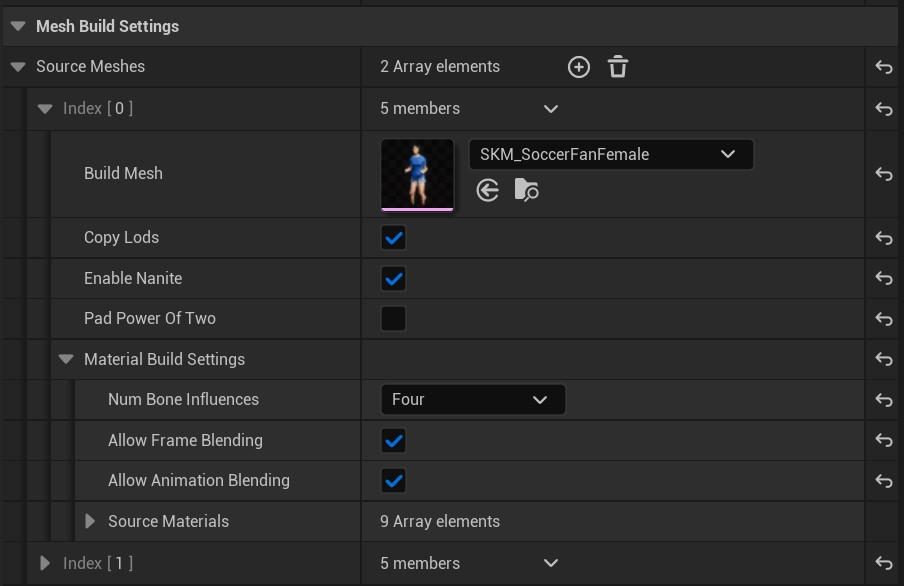
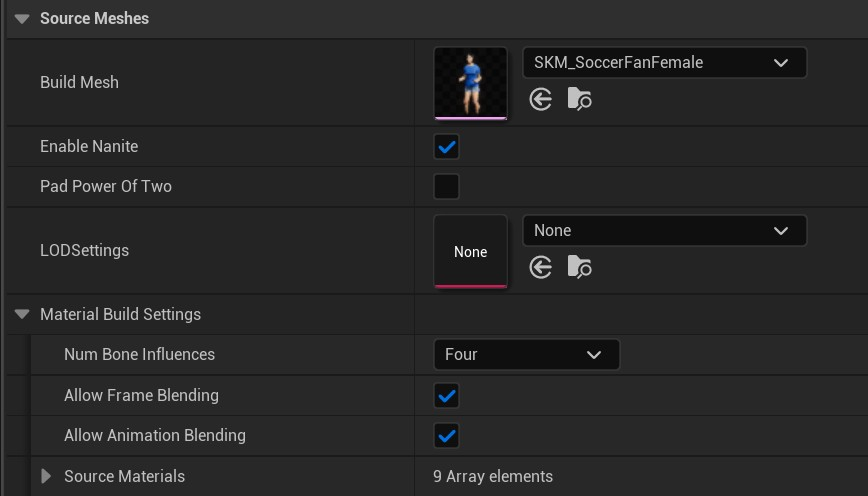
updates

diff --git a/docs/custom-animation-lists.md b/docs/custom-animation-lists.md
@@ -11,61 +11,58 @@ Animation Lists allow you to create reusable animation behaviors that can be app
 > 3. Name your blueprint (e.g., `BP_SoccerFanAnimListLogic`)
 > 4. Open the blueprint and override the events you need
 
-![Animation List Event Override](assets/animlist_eventoverride.jpg){width=600px style="margin-top: 10px; margin-bottom: 5px;"}
+![Begin Instances Event](assets/animlist_begininstances.jpg){width=600px style="margin-top: 10px; margin-bottom: 5px;"}
 
-## Animation List Events
 
-> Your custom Animation List blueprint can override these events to control animation behavior:
-
-### Event Begin Instances
+### **Event Begin Instances**
 > Called when instances are assigned to use this Animation List. Use this to initialize any custom logic or state.
 
-### Event End Instances  
+### **Event End Instances**  
 > Called when instances stop using this Animation List. Use this for cleanup.
 
-### Event Update Instances
+### **Event Update Instances**
 > Called every frame for all active instances. Use this for time-based logic or checking transition conditions.
 
-### Event Animation Completed
+### **Event Animation Completed**
 > Called when an animation finishes playing. Use this to choose the next animation or transition to a different behavior.
 
-### Event Custom Animation Event
+### **Event Custom Animation Event**
 > Called when events are broadcast from the AVACrowds actor or your custom event system. Use this to respond to gameplay events.
 
 > **Update Context**: All events receive an Update Context parameter that provides functions to control animations (play, pause, set position, etc.) and query current animation state (which animation is playing, current position, play rate, etc.) for any instance.
 
-![Begin Instances Event](assets/animlist_begininstances.jpg){width=600px style="margin-top: 10px; margin-bottom: 5px;"}
+![Animation List Event Override](assets/animlist_eventoverride.jpg){width=600px style="margin-top: 10px; margin-bottom: 5px;"}
 
 ## Working with the Update Context
 
 > The Update Context is your primary tool for controlling animations from within your Animation List logic. It provides:
 
-### Animation Control Functions
-> - **PlayAnimation**: Start a new animation for specific instances
-> - **PauseAnimation / ResumeAnimation**: Pause and resume playback
-> - **SetAnimationPosition**: Jump to a specific point in the animation
-> - **SetAnimationPlayRate**: Change animation speed
-> - **SetAnimationLooping**: Enable/disable looping
-> - **StopAnimation**: Stop the current animation
+### **Animation Control Functions**
+> - `PlayAnimation`: Start a new animation for specific instances
+> - `PauseAnimation` / `ResumeAnimation`: Pause and resume playback
+> - `SetAnimationPosition`: Jump to a specific point in the animation
+> - `SetAnimationPlayRate`: Change animation speed
+> - `SetAnimationLooping`: Enable/disable looping
+> - `StopAnimation`: Stop the current animation
 
-### Query Functions
-> - **GetInstanceIds**: Get all instances using this list
-> - **GetAnimation**: Get which animation is currently playing
-> - **GetPosition**: Get current position in the animation (0-1)
-> - **GetPlayRate**: Get current playback speed
-> - **GetPlaying**: Check if animation is playing
-> - **GetLooping**: Check if animation is looping
+### **Query Functions**
+> - `GetInstanceIds`: Get all instances using this list
+> - `GetAnimation`: Get which animation is currently playing
+> - `GetPosition`: Get current position in the animation (0-1)
+> - `GetPlayRate`: Get current playback speed
+> - `GetPlaying`: Check if animation is playing
+> - `GetLooping`: Check if animation is looping
 
-> **Example**: For a detailed implementation example, see `Plugins/VertexAnimation/Content/DemoMap/Blueprints/SoccerGame/BP_SoccerFanAnimListLogic.uasset`
+**Example**: For a detailed implementation example, see `Plugins/VertexAnimation/Content/DemoMap/Blueprints/SoccerGame/BP_SoccerFanAnimListLogic.uasset`
 
 ## Built-in Animation List Types
 
 > The plugin includes pre-built Animation List types you can use or extend:
 
-### Sequence List
+### **Sequence List**
 > Plays animations in the order they appear in the list. When the last animation completes, it loops back to the first.
 
-### Random List  
+### **Random List**  
 > Randomly selects animations from the list. You can configure weights and prevent the same animation from playing twice in a row.
 
 ## See Also

diff --git a/docs/va-asset-editor-custom-data.md b/docs/va-asset-editor-custom-data.md
@@ -16,37 +16,49 @@ The Per Instance Custom Data system allows you to inject randomized or controlle
 
 To set up your custom data, follow these steps:
 
-### Step 1: Add Per Instance Custom Data Node
+### **Step 1: Add Per Instance Custom Data Node**
 > In your material, add a Per Instance Custom Data node
 
-### Step 2: Set Data Index
+### **Step 2: Set Data Index**
 > When creating your first Custom Data node, assign it a Data Index of 10. Indices **0-9 are reserved for system functionality so do not use these indices. Instead start at 10**. For each additional Custom Data node, increment the index value (11, 12, etc.).
 
 ![Data Index](assets/va_material_dataindex.jpg){width=400px style="margin-top: 10px; margin-bottom: 5px;"}
 
-### Step 3: Connect ScalarParameter
+### **Step 3: Connect ScalarParameter**
 > Add a ScalarParameter node and name it the name of your Custom Data. Plug the output into the PerInstanceCustomData node input.
 
 ![Per Instance Data Node](assets/va_material_customdatanodes.jpg){width=800px style="margin-top: 10px; margin-bottom: 5px;"}
 
-### Step 4: Add Entry in VA Asset Editor
+### **Step 4: Add Entry in VA Asset Editor**
 > In the VA Asset Collection Editor window, locate the **Mesh Runtime Data** section and add a new entry to the **Per Instance Custom Data** list.
 
-### Step 5: Configure Custom Data Entry
+### **Step 5: Configure Custom Data Entry**
 > Enter the same Custom Data Name you used for the ScalarParameter in your material. Note that entries in this list correspond sequentially to Per Instance Custom Data Indices in the material itself: the first entry maps to Data Index 10, the second to Index 11, and so on.
 
-### Step 6: Set Value Range
+### **Step 6: Set Value Range**
 > Define the variation range by setting minimum and maximum values in the Custom Float fields. Enable the checkbox below to round values to integers if needed.
 
 ![Per Instance Data](assets/vacollect_custom_entry.jpg){width=800px style="margin-top: 10px; margin-bottom: 5px;"}
 
-### Step 7: Reapply Custom Data
+### **Step 7: Reapply Custom Data**
 > Remember to **Reapply Custom Data** when you are done.
 
 ![Reapply Custom Data](assets/va_reapply.jpg){width=800px style="margin-top: 10px; margin-bottom: 5px;"}
 
 
 ## Usage Examples
+
+<div class="image-row" style="display: flex; gap: 10px; justify-content: center; align-items: center;">
+  <div style="text-align: center;">
+    <img src="../assets/custdata_var01.jpg" alt="Custom Data Variation 1" style="width: 200px; height: auto;">
+  </div>
+  <div style="text-align: center;">
+    <img src="../assets/custdata_var02.jpg" alt="Custom Data Variation 2" style="width: 200px; height: auto;">
+  </div>
+  <div style="text-align: center;">
+    <img src="../assets/custdata_var03.jpg" alt="Custom Data Variation 3" style="width: 200px; height: auto;">
+  </div>
+</div>
 
 You can use custom data for various effects, such as:
 

diff --git a/docs/animation-control.md b/docs/animation-control.md
@@ -9,7 +9,6 @@ The Vertex Animation Toolset provides helper functions that automatically manage
 > - **Single Mode**: Direct control of individual animations
 > - **AnimList Mode**: List-based animation sequences
 
-When you use the component's animation functions like `PlaySingleAnimation` or `PlayAnimationList`, the system automatically transitions between modes based on which function you call.
 
 ## Single Animation Mode
 
@@ -20,8 +19,6 @@ When you use the component's animation functions like `PlaySingleAnimation` or `
 > 3. Maintains this mode until you call a different animation function
 
 ![Play Single Animation](assets/playsingleanim.jpg){width=600px style="margin-top: 10px; margin-bottom: 5px;"}
-
-### Playing Single Animations
 
 > The `PlaySingleAnimation` function accepts:
 > 
@@ -34,7 +31,7 @@ When you use the component's animation functions like `PlaySingleAnimation` or `
 > - **Reverse**: Play the animation backwards
 > - **Override Saved Animation**: When true, saves this animation state to the level so it persists across editor sessions and plays automatically on level load
 
-### Single Animation Functions
+### All Available Functions
 
 > Core functions available in Single Mode:
 > 
@@ -55,8 +52,6 @@ When you use the component's animation functions like `PlaySingleAnimation` or `
 
 ![Play Animation List](assets/playanimlist.jpg){width=600px style="margin-top: 10px; margin-bottom: 5px;"}
 
-### Playing Animation Lists
-
 > The `PlayAnimationList` function accepts:
 > 
 > - **Instance ID / Instance IDs**: Single instance or array of instances to affect
@@ -67,7 +62,7 @@ When you use the component's animation functions like `PlaySingleAnimation` or `
 
 > The animation system includes a robust event system that's particularly powerful when used with the [Crowd Tools](crowd-tools-editor-mode.md). Events can be broadcast to all instances or specific subsets of your crowd, allowing you to make crowds react dynamically to gameplay events, level changes, or player actions.
 
-### Broadcasting Events
+### **Broadcasting Events**
 
 > **For Crowd Systems**: Events are broadcast through the AVACrowds parent actor to all crowd instances:
 
@@ -75,7 +70,7 @@ When you use the component's animation functions like `PlaySingleAnimation` or `
 
 > **For Non-Crowd Systems**: If you're using VA Mesh Component without the crowd tools, you'll need to implement your own event system to communicate with your Animation Lists.
 
-### Event Handling in Animation Lists
+### **Event Handling in Animation Lists**
 
 > Custom Animation Lists receive events by overriding the `CustomAnimationEvent` function. Here's an example:
 

diff --git a/docs/getting-started.md b/docs/getting-started.md
@@ -14,7 +14,7 @@ graph TD
     E --> D
 ```
 
-## Step 1: Create VA Asset
+### **Step 1: Create VA Asset**
 
 > 1. Right-click your skeletal mesh in Content Browser
 > 2. Choose animation type:
@@ -29,7 +29,7 @@ graph TD
 
 > A VA Asset Collection is the core asset that stores all data required for vertex animations. Learn more about what it contains in the [VA Asset Collection](va-asset-collection.md) documentation.
 
-## Step 2: Fix Materials
+### **Step 2: Fix Materials**
 
 > Since vertex animations work differently than skeletal animations, your materials need to be modified. A dialog will appear showing any material errors:
 
@@ -46,7 +46,7 @@ graph TD
 
 ![VA Asset Collection Result](assets/quick_4.png){style="margin-top: 10px; margin-bottom: 5px;"}
 
-## Step 3: Configure Asset (Optional)
+### **Step 3: Configure Asset (Optional)**
 
 > Double-click your VA Asset Collection to open the editor and adjust settings:
 > 
@@ -56,15 +56,12 @@ graph TD
 > 
 > Click "Rebuild Asset" after making changes to apply them.
 
-## Step 4: Choose Implementation
+### **Step 4: Choose Implementation**
 
-### Single Character
-> Use [VA Mesh Component](vertex-anim-mesh-component.md) for individual characters needing precise control
+> - **Single Character**: Use [VA Mesh Component](vertex-anim-mesh-component.md) for individual characters needing precise control
+> - **Multiple Characters**: Use [VA Instanced Mesh Component](vertex-anim-instanced-mesh-component.md) for crowds and multiple characters
 
-### Multiple Characters  
-> Use [VA Instanced Mesh Component](vertex-anim-instanced-mesh-component.md) for crowds and multiple characters
-
-## Step 5: Place Characters (Multiple Characters Only)
+### **Step 5: Place Characters (Multiple Characters Only)**
 
 > Use [Crowd Tools](crowd-tools-editor-mode.md) for easy placement:
 > 
@@ -74,7 +71,7 @@ graph TD
 
 ![Crowd Example](assets/Crowd_01.jpg){: style="display: block; margin: 0 auto; width: 85%; padding: 10px;"}
 
-## Step 6: Control Animations
+### **Step 6: Control Animations**
 
 > Configure animations through:
 > 
@@ -84,6 +81,6 @@ graph TD
 
 ## Next Steps
 
-> - [VA Asset Collection](va-asset-collection.md): Manage your animation assets
-> - [VA Asset Collection](va-asset-collection.md): Fine-tune asset settings
-> - [Troubleshooting](troubleshooting.md): Solve common issues
+- [VA Asset Collection](va-asset-collection.md): Manage your animation assets
+- [VA Asset Collection](va-asset-collection.md): Fine-tune asset settings
+- [Troubleshooting](troubleshooting.md): Solve common issues

diff --git a/docs/va-asset-editor-animation.md b/docs/va-asset-editor-animation.md
@@ -5,14 +5,14 @@ This page details the animation-related settings in the VA Asset Editor, coverin
 ## Animation Build Settings
 ![Animation Build Settings](assets/vacollect_anim_build.jpg){width=600px style="margin-top: 10px; margin-bottom: 5px;"}
 
-The Animation Build Settings panel lets you manage your animation sequences and build options. Here you can edit the source animation list. Additional settings include options for texture generation quality and power-of-two padding optimization.
+> The Animation Build Settings panel lets you manage your animation sequences and build options. Here you can edit the source animation list. Additional settings include options for texture generation quality and power-of-two padding optimization.
 
 **Note:** Remember to click the Rebuild Asset button after making changes.
 
 ## Animation Runtime Data
 ![Animation Runtime Data](assets/vacollect_anim_runtime.jpg){width=600px style="margin-top: 10px; margin-bottom: 5px;"}
 
-This section shows the read-only compiled animation data for each sequence, including:
+> This section shows the read-only compiled animation data for each sequence, including:
 
 > - Animation frame details (start frame, duration, frame rate)
 > - Total frame count
@@ -20,12 +20,11 @@ This section shows the read-only compiled animation data for each sequence, incl
 > - Position and rotation/normal texture mappings
 
 ## Animation Preview
+![Animation Timeline](assets/vaasset_animation_timeline.jpg){width=600px style="margin-top: 10px; margin-bottom: 5px;"}
 
-The timeline area in the VA Asset Editor displays your currently selected preview animation. You can switch between different animations to visualize how your asset will appear in-game.
-
-## Animation Timeline
-
-The bottom panel provides standard timeline controls for previewing your animations. Use these controls to play, pause, and scrub through your animation sequences.
+> The timeline area in the VA Asset Editor displays your currently selected preview animation. You can switch between different animations to visualize how your asset will appear in-game.
+>
+> The bottom panel provides standard timeline controls for previewing your animations. Use these controls to play, pause, and scrub through your animation sequences.
 
 ## See Also
 

diff --git a/docs/va-asset-collection.md b/docs/va-asset-collection.md
@@ -25,18 +25,16 @@ Double-click a VA Asset Collection to open the editor window where you can confi
 
 ![VA Asset Editor Interface](assets/vacollect_02.jpg){width="70%" style="margin-top: 10px;"}
 
-### Interface Elements
-
-#### 1. Rebuild Asset Button
+### **1. Rebuild Asset Button**
 > This button reconstructs your mesh and materials. Use this after making any adjustments in the details panel to ensure your changes are properly applied.
 
-#### 2. Preview Mesh Selection
+### **2. Preview Mesh Selection**
 > For Bone VA Asset Collections that contain multiple meshes, this dropdown menu allows you to switch between different meshes in the preview window. This is particularly useful when working with collections that include variations of the same character or object.
 
-#### 3. Reapply Custom Data
+### **3. Reapply Custom Data**
 > This button applies custom data changes to your materials. Custom data allows you to pass per-instance float values (like color variations, roughness, etc.) to materials for visual diversity between instances. See [Custom Data](va-asset-editor-custom-data.md) for setup instructions.
 
-#### 4. Details Panel
+### **4. Details Panel**
 > The right-side panel contains crucial settings divided into several categories:
 >
 > - **[Animation Settings](va-asset-editor-animation.md)**: Configure animation build options and view runtime animation data
@@ -45,13 +43,13 @@ Double-click a VA Asset Collection to open the editor window where you can confi
 >
 > These settings allow you to fine-tune various aspects of your vertex animation.
 
-#### 5. Animation Preview
+### **5. Animation Preview**
 > The timeline area displays your currently selected preview animation. You can switch between different animations to visualize how your asset will appear in-game.
 
-#### 6. Animation Timeline
+### **6. Animation Timeline**
 > The bottom panel provides standard timeline controls for previewing your animations. Use these controls to play, pause, and scrub through your animation sequences.
 
-**Remember to click "Rebuild Asset" after making changes to apply them.**
+Remember to click "Rebuild Asset" after making changes to apply them.
 
 ## Technical Details
 

diff --git a/docs/vertex-anim-mesh-component.md b/docs/vertex-anim-mesh-component.md
@@ -8,7 +8,6 @@ The VA Mesh Component inherits from UStaticMeshComponent and uses a modular arch
 
 ## Core Properties
 
-### Asset Reference
 > - **Vertex Animation Asset**: Select your VA Asset Collection containing the mesh and animation data
 > - **Vertex Animation Mesh Index**: Select which mesh to use from the asset collection (if it contains multiple meshes)
 > - **Custom Data Floats Hash**: Read-only property showing the hash of custom data configurations
@@ -23,10 +22,10 @@ The VA Mesh Component inherits from UStaticMeshComponent and uses a modular arch
 
 ## Animation Modes
 
-### Single Animation Mode
+### **Single Animation Mode**
 > Play individual animations directly from the VA Asset Collection. Use this mode when you need precise control over specific animations.
 
-### Animation List Mode  
+### **Animation List Mode**  
 > Play animations through Animation Lists that define playback behavior. Animation Lists can be:
 >
 > - **Sequential**: Play animations in order
@@ -45,11 +44,11 @@ The VA Mesh Component inherits from UStaticMeshComponent and uses a modular arch
 
 > Key Blueprint-callable functions for controlling animations:
 >
-> - **Play Single Animation**: Play a specific animation from the asset collection
-> - **Play Animation List**: Start playback using an animation list
-> - **Set Animation Asset**: Change the VA Asset Collection at runtime
-> - **Set Animation Mesh Index**: Switch between meshes in multi-mesh collections
-> - **Set Animation Mode**: Toggle between single and list animation modes
+> - `PlaySingleAnimation`: Play a specific animation from the asset collection
+> - `PlayAnimationList`: Start playback using an animation list
+> - `SetAnimationAsset`: Change the VA Asset Collection at runtime
+> - `SetAnimationMeshIndex`: Switch between meshes in multi-mesh collections
+> - `SetAnimationMode`: Toggle between single and list animation modes
 
 > These functions are provided by the Animation Mode Manager and Animation Lists systems.
 

diff --git a/docs/va-asset-editor-mesh.md b/docs/va-asset-editor-mesh.md
@@ -8,10 +8,10 @@ This page details the mesh-related settings in the VA Asset Editor, covering bot
 The Mesh Build Settings control how your mesh assets are processed, featuring:
 
 > - Source mesh selection and configuration
-> - LOD and Nanite compatibility options
+> - LOD settings and Nanite compatibility option
 > - Material build settings with bone influence controls
-> - Animation and frame blending options
-> - The source materials list
+> - Frame blending and animation blending options
+> - Source materials list
 
 **Note:** Remember to click the Rebuild Asset button after making changes.
 
